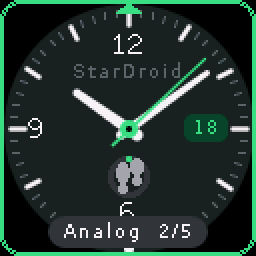
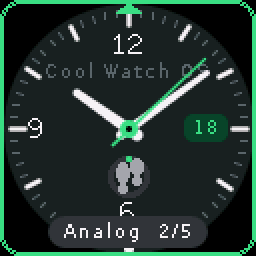
Rename the project to Cool Watch OS
StarDroid becomes Cool Watch OS everywhere: the boot wordmark, About,
setup, simulator window titles, README and docs. The helper script is now
coolwatch.sh, the simulator and tests build as coolwatch-sim and
coolwatch-tests, firmware images are dist/coolwatch-<watch>.bin, the
Watchy build flags are COOLWATCH_WATCHY*, and settings live in the
"coolwatch" preferences namespace. Build numbers start with CW1A.

The old name ended in "Droid", a Lucasfilm trademark.

Claude-Session: https://claude.ai/code/session_01MuW6GxcyABcJzSRhQ2pbse

Changed region(s): [[0.1562, 0.25, 0.8125, 0.3125]]

diff --git a/src/apps/Boot.cpp b/src/apps/Boot.cpp
@@ -1,4 +1,4 @@
-// Boot animation: bouncing dots that settle into the StarDroid wordmark,
+// Boot animation: bouncing dots that settle into the Cool Watch OS wordmark,
 // with a light sweep across the wordmark.
 #include "Apps.h"
 #include <cmath>
@@ -65,19 +65,19 @@ public:
 		drawLogo(c, 64, logoY, 14, mint, col::Bg);
 
 		const uint16_t dim = blend(col::Bg, col::TextFaint, (uint8_t) (appear * 255));
-		text(c, "stardroid", 64, cy + 14, &fonts::Roboto_Thin_24, dim, textdatum_t::middle_center);
+		text(c, "coolwatch", 64, cy + 14, &fonts::Roboto_Thin_24, dim, textdatum_t::middle_center);
 
 		// Light sweep across the wordmark
 		const float sweep = (t - 1650) / 900.0f;
 		if(sweep > 0 && sweep < 1.4f){
 			const int x = (int) (10 + sweep * 110);
 			c.setClipRect(x - 12, cy, 24, 30);
-			text(c, "stardroid", 64, cy + 14, &fonts::Roboto_Thin_24, col::Text, textdatum_t::middle_center);
+			text(c, "coolwatch", 64, cy + 14, &fonts::Roboto_Thin_24, col::Text, textdatum_t::middle_center);
 			c.setClipRect(x - 5, cy, 10, 30);
-			text(c, "stardroid", 64, cy + 14, &fonts::Roboto_Thin_24, col::Mint, textdatum_t::middle_center);
+			text(c, "coolwatch", 64, cy + 14, &fonts::Roboto_Thin_24, col::Mint, textdatum_t::middle_center);
 			c.clearClipRect();
 		}else if(sweep >= 1.4f){
-			text(c, "stardroid", 64, cy + 14, &fonts::Roboto_Thin_24, col::Text, textdatum_t::middle_center);
+			text(c, "coolwatch", 64, cy + 14, &fonts::Roboto_Thin_24, col::Text, textdatum_t::middle_center);
 		}
 		text(c, hal::deviceName(), 64, os::H - 6, Small, dim, textdatum_t::bottom_center);
 	}

diff --git a/src/hal/HalWatchy.cpp b/src/hal/HalWatchy.cpp
@@ -1,6 +1,6 @@
 // SQFMI Watchy hardware layer (ESP32-PICO-D4, 200x200 e-paper).
 // Pins and quirks follow the official Watchy library (sqfmi/Watchy).
-#if defined(STARDROID_WATCHY)
+#if defined(COOLWATCH_WATCHY)
 
 #include "Hal.h"
 #include "Mono.h"
@@ -13,8 +13,8 @@
 #include <GxEPD2_BW.h>
 #include <SensorBMA423.hpp>
 
-#ifndef STARDROID_WATCHY_REV
-#define STARDROID_WATCHY_REV 20
+#ifndef COOLWATCH_WATCHY_REV
+#define COOLWATCH_WATCHY_REV 20
 #endif
 
 namespace {
@@ -24,10 +24,10 @@ namespace {
 constexpr int PinMenu = 26; // Select
 constexpr int PinBack = 25;
 constexpr int PinDown = 4;
-#if STARDROID_WATCHY_REV >= 20
+#if COOLWATCH_WATCHY_REV >= 20
 constexpr int PinUp = 35;
 constexpr int PinBattery = 34;
-#elif STARDROID_WATCHY_REV == 15
+#elif COOLWATCH_WATCHY_REV == 15
 constexpr int PinUp = 32;
 constexpr int PinBattery = 35;
 #else
@@ -227,7 +227,7 @@ void begin(){
 	battMv = sampleBattery();
 	lastBattSample = ::millis();
 
-	prefs.begin("stardroid");
+	prefs.begin("coolwatch");
 }
 
 void present(LGFX_Sprite& frame){
@@ -366,13 +366,13 @@ void restart(){
 }
 
 uint8_t revision(){
-	return STARDROID_WATCHY_REV;
+	return COOLWATCH_WATCHY_REV;
 }
 
 const char* deviceName(){
-#if STARDROID_WATCHY_REV >= 20
+#if COOLWATCH_WATCHY_REV >= 20
 	return "Watchy v2.0";
-#elif STARDROID_WATCHY_REV == 15
+#elif COOLWATCH_WATCHY_REV == 15
 	return "Watchy v1.5";
 #else
 	return "Watchy v1.0";

diff --git a/sim/sim_main.cpp b/sim/sim_main.cpp
@@ -1,7 +1,7 @@
-// StarDroid simulator entry point.
+// Cool Watch OS simulator entry point.
 //
-//   stardroid-sim                      interactive SDL window
-//   stardroid-sim --script "..." --out DIR
+//   coolwatch-sim                      interactive SDL window
+//   coolwatch-sim --script "..." --out DIR
 //                                      headless, scripted, writes PPM frames
 //   --watchy                           run as a Watchy (200x200 e-paper)
 //
@@ -121,6 +121,6 @@ int main(int argc, char** argv){
 	}
 	if(!script.empty()) return headless(script, out);
 
-	printf("StarDroid simulator\n  Up/Down arrows: Up/Down\n  Enter/Space/Right: Select\n  Esc/Backspace/Left: Back\n");
+	printf("Cool Watch OS simulator\n  Up/Down arrows: Up/Down\n  Enter/Space/Right: Select\n  Esc/Backspace/Left: Back\n");
 	return lgfx::Panel_sdl::main(interactive);
 }

diff --git a/tests/os_tests.cpp b/tests/os_tests.cpp
@@ -1,11 +1,11 @@
-// StarDroid test program.
+// Cool Watch OS test program.
 //
 // Runs the real OS and apps on the headless simulator with a virtual clock and
 // scripted buttons. Each test runs in its own forked process, so global OS
 // state is fresh every time and a crash fails one test instead of the run.
 //
-//   stardroid-tests            run everything
-//   stardroid-tests timer      run tests whose name contains "timer"
+//   coolwatch-tests            run everything
+//   coolwatch-tests timer      run tests whose name contains "timer"
 #include "hal/SimControl.h"
 #include "os/Os.h"
 #include "os/Ui.h"

diff --git a/src/apps/Settings.cpp b/src/apps/Settings.cpp
@@ -242,7 +242,7 @@ private:
 						case 3:
 							snprintf(buf[1], sizeof(buf[1]), "Revision %d", hal::revision());
 							return ListView::Row{ "Hardware", buf[1], col::Blue, icon::gear, -1 };
-						case 4: return ListView::Row{ "Build number", "SD1A.261018.001", col::Yellow, icon::code, -1 };
+						case 4: return ListView::Row{ "Build number", "CW1A.261018.001", col::Yellow, icon::code, -1 };
 						case 5: return ListView::Row{ "License", "GPL-3.0", col::Teal, icon::info, -1 };
 						default: return ListView::Row{ "Display", hal::features().screen, col::Purple, icon::watch, -1 };
 					}

diff --git a/src/os/Os.h b/src/os/Os.h
@@ -4,7 +4,7 @@
 #include <memory>
 #include "hal/Hal.h"
 
-// StarDroid: a tiny Android-inspired OS. Apps are Activities on a back stack,
+// Cool Watch OS: a tiny Android-inspired OS. Apps are Activities on a back stack,
 // started with Intents and drawn into a 128x128 canvas every frame.
 namespace os {
 
@@ -14,7 +14,7 @@ constexpr int W = 128;
 constexpr int H = 128;
 constexpr int StatusBarH = 12;
 
-constexpr const char* Name = "StarDroid";
+constexpr const char* Name = "Cool Watch OS";
 constexpr const char* Version = "1.0";
 constexpr const char* Codename = "Comet";
 

diff --git a/src/hal/HalSim.cpp b/src/hal/HalSim.cpp
@@ -111,7 +111,7 @@ void begin(){
 	lgfx::Panel_sdl::addKeyCodeMapping(SDLK_SPACE, KeyGpio[2]);
 	lgfx::Panel_sdl::addKeyCodeMapping(SDLK_ESCAPE, KeyGpio[3]);
 	lgfx::Panel_sdl::addKeyCodeMapping(SDLK_BACKSPACE, KeyGpio[3]);
-	((lgfx::Panel_sdl*) lcd->panel())->setWindowTitle(watchy() ? "StarDroid - Watchy simulator" : "StarDroid - Clockstar simulator");
+	((lgfx::Panel_sdl*) lcd->panel())->setWindowTitle(watchy() ? "Cool Watch OS - Watchy simulator" : "Cool Watch OS - Clockstar simulator");
 }
 
 void present(LGFX_Sprite& frame){

diff --git a/src/os/Ui.h b/src/os/Ui.h
@@ -140,7 +140,7 @@ namespace icon {
 	void apps(Canvas& c, int cx, int cy, uint16_t fg);
 }
 
-// The StarDroid logo: a watch outline with a four-point sparkle. s is half
+// The Cool Watch OS logo: a watch outline with a four-point sparkle. s is half
 // the width of the watch body; bg fills the face.
 void drawLogo(Canvas& c, int cx, int cy, int s, uint16_t fg, uint16_t bg);
 void sparkle(Canvas& c, int cx, int cy, int rx, int ry, uint16_t color);

diff --git a/src/hal/HalClockstar.cpp b/src/hal/HalClockstar.cpp
@@ -1,5 +1,5 @@
 // Clockstar 2.0 hardware layer (ESP32-S3, Arduino core).
-#if defined(ARDUINO) && !defined(LGFX_SDL) && !defined(STARDROID_WATCHY)
+#if defined(ARDUINO) && !defined(LGFX_SDL) && !defined(COOLWATCH_WATCHY)
 
 #include "Hal.h"
 #include "Pins.h"
@@ -252,7 +252,7 @@ void begin(){
 	battMv = sampleBattery();
 	lastBattSample = ::millis();
 
-	prefs.begin("stardroid");
+	prefs.begin("coolwatch");
 }
 
 void present(LGFX_Sprite& frame){

diff --git a/src/apps/Setup.cpp b/src/apps/Setup.cpp
@@ -264,7 +264,7 @@ private:
 		c.fillSmoothCircle(64, 52, (int) (8 + p * 18), a.primary);
 		if(p >= 1) icon::check(c, 64, 52, a.container);
 		text(c, "You're all set", 64, 92, Body, col::Text, textdatum_t::middle_center);
-		text(c, "Enjoy StarDroid", 64, 108, Small, col::TextDim, textdatum_t::middle_center);
+		text(c, "Enjoy Cool Watch OS", 64, 108, Small, col::TextDim, textdatum_t::middle_center);
 	}
 };
 

diff --git a/src/apps/Games.cpp b/src/apps/Games.cpp
@@ -298,7 +298,7 @@ private:
 	}
 
 	void drawRunner(os::Canvas& c, int x, int base){
-		// The StarDroid sparkle, running on two legs
+		// The Cool Watch OS sparkle, running on two legs
 		const uint16_t fg = col::Text;
 		const bool duck = ducking && y == 0;
 		const bool step = ((int) distance / 6) % 2;

diff --git a/README.md b/README.md
@@ -1,13 +1,13 @@
-# StarDroid: an Android-style OS for the Clockstar 2.0 and Watchy
+# Cool Watch OS: Android-style firmware for the Clockstar 2.0 and Watchy
 
-StarDroid is custom firmware for two open-source smartwatches:
+Cool Watch OS is custom firmware for two open-source smartwatches:
 
 - the [CircuitMess Clockstar 2.0](https://circuitmess.com/) (ESP32-S3,
   128×128 colour screen, 4 buttons)
 - the [SQFMI Watchy](https://watchy.sqfmi.com/) (ESP32, 200×200 black-and-white
   e-paper, 4 buttons), see [Watchy](#watchy)
 
-Both are microcontrollers, so real Android can't run on them. StarDroid copies Android and
+Both are microcontrollers, so real Android can't run on them. Cool Watch OS copies Android and
 Wear OS where it can: apps are **Activities** on a **back stack**, started with
 **Intents**, and the system UI has a status bar, a quick-settings shade,
 heads-up notifications, toasts and a power menu.
@@ -47,7 +47,7 @@ heads-up notifications, toasts and a power menu.
   snooze. Timers and alarms wake the watch from sleep.
 - **Tools**: calendar, bubble level, and a flashlight with white, red and warm
   modes.
-- **Games**: Snake and Star run, an endless runner starring the StarDroid sparkle.
+- **Games**: Snake and Star run, an endless runner starring the Cool Watch OS sparkle.
 - **Settings**: brightness, screen timeout, watch face, colour, sound, DND,
   24-hour time, time and date, step goal, battery, About watch, and reset.
   Tap *Build number* 7 times to unlock developer options.
@@ -71,21 +71,21 @@ your last 5 readings. It is not a medical device.
 | SELECT | App drawer (hold: change face) | Select / confirm |
 | BACK | Turn the screen off | Back (hold: power menu) |
 
-## Quick start: `./stardroid.sh`
+## Quick start: `./coolwatch.sh`
 
 One script does the whole job, and installs whatever is missing:
 
 ```sh
-./stardroid.sh            # install tools if needed, run the tests, build dist/stardroid-clockstar.bin
-./stardroid.sh flash      # build and flash the watch over USB (finds the port itself)
-./stardroid.sh deploy     # test, flash, then open the serial monitor
-./stardroid.sh sim        # run the desktop simulator
-./stardroid.sh test timer # run only the tests with "timer" in the name
-./stardroid.sh help       # every command
+./coolwatch.sh            # install tools if needed, run the tests, build dist/coolwatch-clockstar.bin
+./coolwatch.sh flash      # build and flash the watch over USB (finds the port itself)
+./coolwatch.sh deploy     # test, flash, then open the serial monitor
+./coolwatch.sh sim        # run the desktop simulator
+./coolwatch.sh test timer # run only the tests with "timer" in the name
+./coolwatch.sh help       # every command
 ```
 
 For a Watchy, add `--watch watchy` (or `watchy-v15` / `watchy-v10`) in front
-of any command, for example `./stardroid.sh --watch watchy flash`.
+of any command, for example `./coolwatch.sh --watch watchy flash`.
 
 It works on Linux (apt, dnf or pacman) and macOS (Homebrew). The rest of
 this README shows the same steps run by hand.
@@ -103,7 +103,7 @@ pio run -e watchy -t upload   # Watchy v2.0 (watchy-v15, watchy-v10 for older bo
 
 The ESP32-S3 flashes over its built-in USB, so no driver or button dance
 should be needed. Every CI run also attaches a
-merged `stardroid-clockstar.bin` that you can flash at offset `0x0` with
+merged `coolwatch-clockstar.bin` that you can flash at offset `0x0` with
 esptool or the [ESP web flasher](https://espressif.github.io/esptool-js/).
 
 **To go back to the stock firmware**, flash the image from the
@@ -125,7 +125,7 @@ The same OS runs on the [SQFMI Watchy](https://watchy.sqfmi.com/) kit
 It supports the v1.0, v1.5 and v2.0 boards; the revision is printed on the
 PCB. The newer ESP32-S3 Watchy v3 isn't supported yet.
 
-**Flashing:** `./stardroid.sh --watch watchy flash` (v2.0), or
+**Flashing:** `./coolwatch.sh --watch watchy flash` (v2.0), or
 `--watch watchy-v15` / `--watch watchy-v10`. These revisions differ in the UP
 button pin, the battery pin and the clock chip (DS3231 on v1.0, PCF8563
 later). The clock chip is detected automatically, but the pins come from the
@@ -159,7 +159,7 @@ two right-hand buttons are UP and DOWN.
   remembered and replayed, so they aren't lost.
 
 **Battery life:** the stock Watchy firmware deep-sleeps between minutes.
-StarDroid uses light sleep so timers, alarms and app state survive. Expect
+Cool Watch OS uses light sleep so timers, alarms and app state survive. Expect
 fewer days per charge than stock. It hasn't been measured on hardware yet.
 
 **To go back to the stock firmware**, flash one of the examples from the
@@ -178,18 +178,18 @@ backend, so you can work on the UI without flashing.
 ```sh
 sudo apt install libsdl2-dev        # or: brew install sdl2
 cmake -S sim -B build/sim && cmake --build build/sim -j
-./build/sim/stardroid-sim
+./build/sim/coolwatch-sim
 ```
 
 Keys: arrows for Up and Down, Enter or Right for Select, Esc or Left for Back.
 Add `--watchy` to simulate the Watchy's e-paper screen.
 
 The simulator also has a headless, scripted mode. It is used to render
-`docs/screenshots` (`sim/screenshots.sh build/sim/stardroid-sim`) and as a
+`docs/screenshots` (`sim/screenshots.sh build/sim/coolwatch-sim`) and as a
 smoke test in CI:
 
 ```sh
-./build/sim/stardroid-sim --out shots --script "w3300 s s p:setup"
+./build/sim/coolwatch-sim --out shots --script "w3300 s s p:setup"
 ```
 
 ## Testing
@@ -228,8 +228,8 @@ the whole suite takes about a second.
 
 ```sh
 cmake -S sim -B build/sim && cmake --build build/sim -j
-./build/sim/stardroid-tests            # everything
-./build/sim/stardroid-tests timer      # tests with "timer" in the name
+./build/sim/coolwatch-tests            # everything
+./build/sim/coolwatch-tests timer      # tests with "timer" in the name
 ctest --test-dir build/sim             # same, via CTest
 ```
 
@@ -293,16 +293,16 @@ and display offsets.
 
 ## License
 
-GPL-3.0, see [LICENSE](LICENSE). The StarDroid logo (a watch with a sparkle)
+GPL-3.0, see [LICENSE](LICENSE). The Cool Watch OS logo (a watch with a sparkle)
 and the Star run mascot are original artwork in this repository, under the
 same license.
 
 ## Trademarks
 
-StarDroid is an independent hobby project. It is not affiliated with,
+Cool Watch OS is an independent hobby project. It is not affiliated with,
 sponsored or endorsed by Google, CircuitMess or SQFMI. Android, Wear OS,
 Material Design, Pixel and Chrome are trademarks of Google LLC; this README
-mentions them only to describe the design ideas StarDroid borrows. StarDroid
+mentions them only to describe the design ideas Cool Watch OS borrows. Cool Watch OS
 contains no Google logos or artwork. Clockstar and Watchy are products of
 CircuitMess and SQFMI, and their names are used only to say which hardware this
 firmware runs on.
